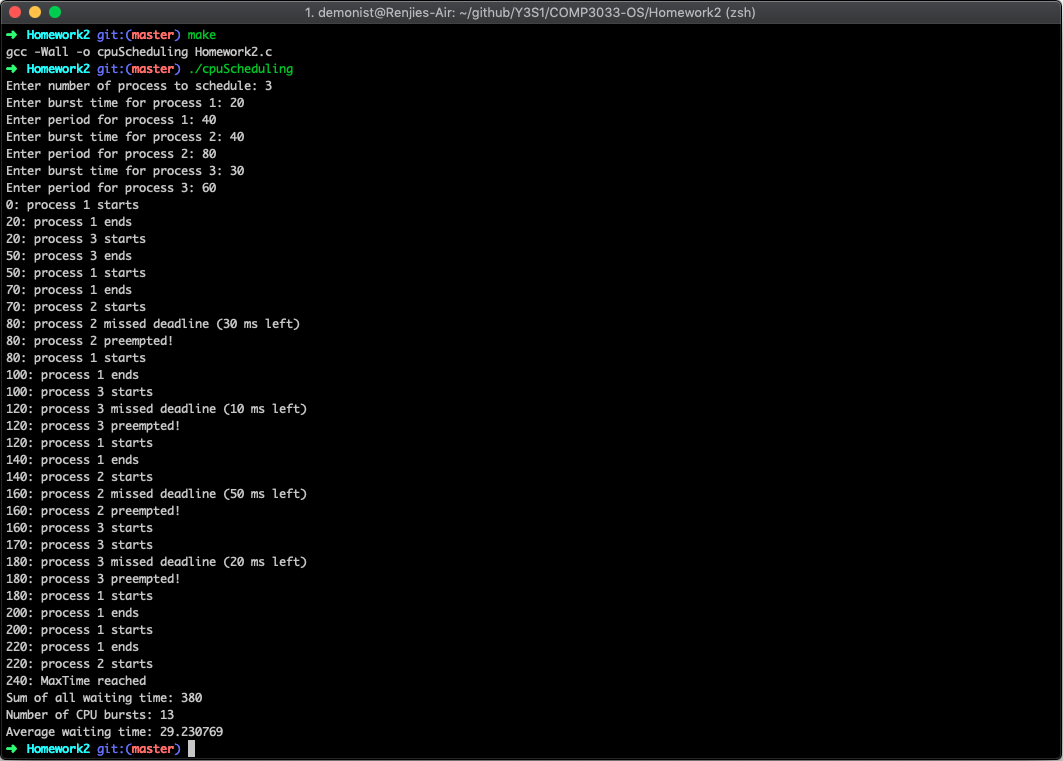
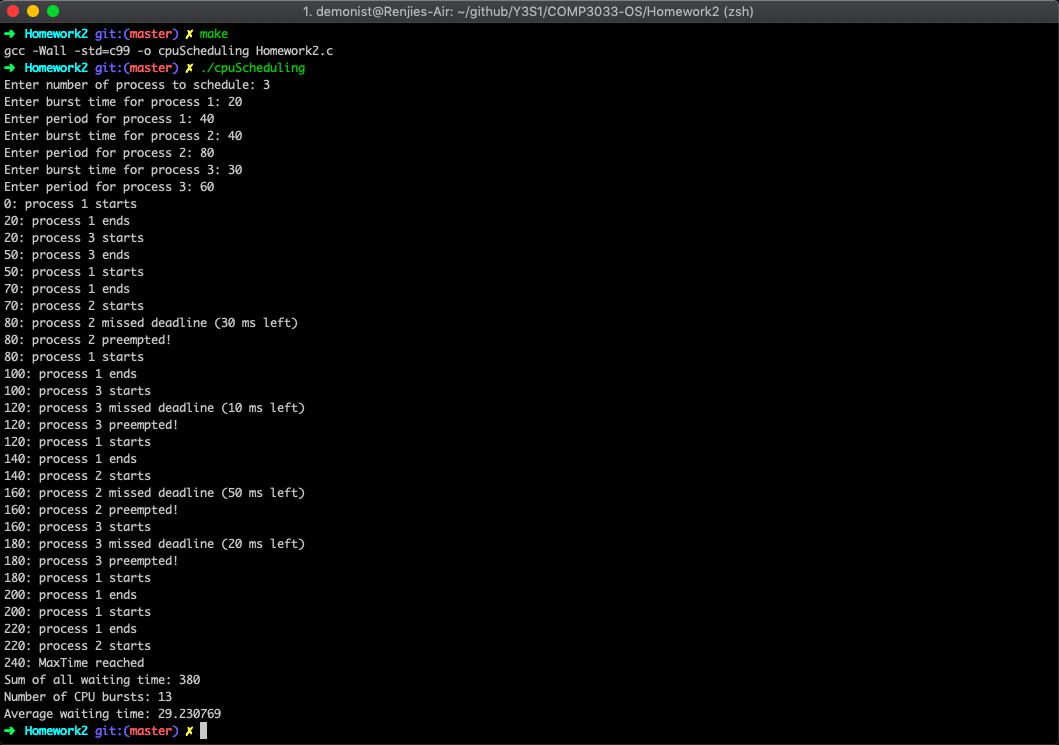
Bye

Changed region(s): [[0.0, 0.0, 1.0, 1.0], [0.2805, 0.0, 0.7167, 0.0309]]

diff --git a/Homework2/Assignment2.md b/Homework2/Assignment2.md
@@ -51,7 +51,8 @@ Process *getEarliestDeadline(Process *processes, int processNum) {
 
 // Get the next process to run
 // earlier: Process which has finished before deadline
-Process *getCurrentProcess(Process *processes, int processNum, Process *earlier) {
+Process *getCurrentProcess(Process *processes, 
+                           int processNum, Process *earlier) {
     Process *current = NULL;
     // Ensure current is not the process in parameter
     for (int i = 0; i < processNum; i++) {
@@ -65,7 +66,8 @@ Process *getCurrentProcess(Process *processes, int processNum, Process *earlier)
         return current;
     // Find the process which has the earliest deadline
     for (int i = 1; i < processNum; i++) {
-        if (processes[i].deadline < current->deadline && processes[i].status)
+        if (processes[i].deadline < current->deadline 
+            && processes[i].status)
             current = &processes[i];
     }
     return current;
@@ -81,7 +83,7 @@ void updateDeadline(Process *process) {
 // Update the status of a process
 void updateStatus(Process *process, int status) {
     // Stop status change when locked
-    if (!process->lock)
+    if (process->lock == UNLOCKED)
         process->status = status;
     // Reset process remain time
     if (status == FINISHED)
@@ -91,8 +93,8 @@ void updateStatus(Process *process, int status) {
 
 // Update total waiting time
 // passedTime: Change of current time's value
-void updateWaitingTime(Process *processes, Process *current, int processNum, 
-                       int *waitingTime, int passedTime) {
+void updateWaitingTime(Process *processes, Process *current, 
+                       int processNum, int *waitingTime, int passedTime) {
     for (int i = 0; i < processNum; i++)
         // Check if the process has finished and if it is running
         if (processes[i].id != current->id && processes[i].status)
@@ -134,7 +136,7 @@ int main(void) {
     // Initialization
     printf("Enter number of process to schedule: ");
     scanf("%d", &processNum);
-    processes = (Process *)malloc(sizeof(Process) * processNum); // Initialize processes
+    processes = (Process *)malloc(sizeof(Process) * processNum); 
     maxTime = initialize(processes, processNum);
     
     // Main process
@@ -154,25 +156,33 @@ int main(void) {
         }
         // Decide if we need to switch to new process
         if (former != NULL) {
-            if (former->id != current->id || former->remainTime == current->burstTime) {
+            if (former->id != current->id 
+                || currentTime == current->deadline - current->period) {
                 if (former->remainTime != former->burstTime) {
-                    printf("%d: process %d preempted!\n", currentTime, former->id);
+                    printf("%d: process %d preempted!\n", 
+                           currentTime, former->id);
                 }
-                printf("%d: process %d starts\n", currentTime, current->id);
+                printf("%d: process %d starts\n", 
+                       currentTime, current->id);
                 burst++;
             }
+            // Situation when last process has finished preempted part
+            else if (current->burstTime == former->remainTime)
+                burst++;
         }
-        // The first process
+        // The first process or all the process is done
         else {
             printf("%d: process %d starts\n", currentTime, current->id);
-            burst++;
+            if (currentTime == 0)
+                burst++;
         }
         
         // Deal with different situations
         if (currentTime + current->remainTime <= earliest->deadline) {
-            // Update waiting time of other process when current time changed
-            updateWaitingTime(processes, current, processNum, &waitingTime, 
-                              current->remainTime);
+            // Update waiting time of other process when 
+            // current time changed
+            updateWaitingTime(processes, current, processNum, 
+                              &waitingTime, current->remainTime);
             currentTime += current->remainTime;
             updateStatus(current, FINISHED);
             current->lock = UNLOCKED;
@@ -188,12 +198,13 @@ int main(void) {
         else {
             // Decide if we need to keep former remain time
             if (current->lock == LOCKED)
-                current->remainTime += currentTime + current->burstTime 
-                - earliest->deadline;
+                current->remainTime += currentTime + 
+                current->burstTime - earliest->deadline;
             else
-                current->remainTime = currentTime + current->remainTime 
-                - earliest->deadline;
-            // Update waiting time for other process when current time changed
+                current->remainTime = currentTime + 
+                current->remainTime - earliest->deadline;
+            // Update waiting time for other process 
+            // when current time changed
             updateWaitingTime(processes, current, processNum, &waitingTime, 
                               earliest->deadline - currentTime);
             currentTime = earliest->deadline;
@@ -202,8 +213,10 @@ int main(void) {
                        currentTime, current->id, current->remainTime);
                 current->lock = LOCKED;
             }
-            // Situation when current process share same deadline with other process
-            else if (currentTime == current->deadline && currentTime != maxTime) {
+            // Situation when current process share 
+            // same deadline with other process
+            else if (currentTime == current->deadline 
+                     && currentTime != maxTime) {
                 printf("%d: process %d missed deadline (%d ms left)\n", 
                        currentTime, current->id, current->remainTime);
                 current->lock = LOCKED;
@@ -229,4 +242,3 @@ int main(void) {
 ### Screenshot
 
 ![](edf.png)
-
